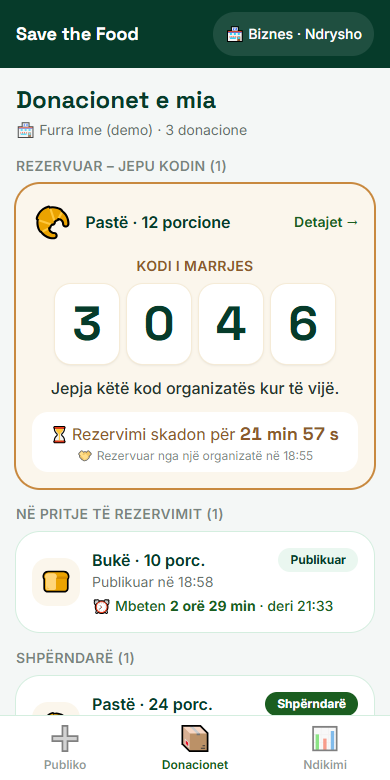
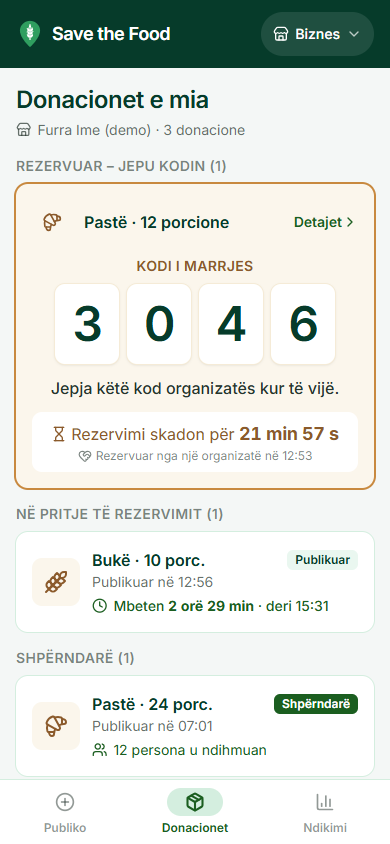
README and link preview show the new design; project notes updated

diff --git a/README.md b/README.md
@@ -34,9 +34,9 @@ Teprica ekziston dhe nevoja ekziston. Mungon një **lidhje e shpejtë** mes tyre
 
 ## Pamje
 
-| Harta | Publikimi | Kodi i marrjes | Ndikimi |
-|:---:|:---:|:---:|:---:|
-| <img src="docs/screenshots/1-harta.png" width="200" alt="Harta me ushqimin afër, një pin i zgjedhur dhe kartela me numërim mbrapsht" /> | <img src="docs/screenshots/2-publiko.png" width="200" alt="Formulari i publikimit me çipa për llojin, porcionet dhe afatin" /> | <img src="docs/screenshots/3-kodi.png" width="200" alt="Donacionet e biznesit me kodin 4-shifror të marrjes" /> | <img src="docs/screenshots/4-ndikimi.png" width="200" alt="Paneli i ndikimit me porcione, kg, donacione dhe persona" /> |
+| Ballina | Harta | Publikimi | Kodi i marrjes | Ndikimi |
+|:---:|:---:|:---:|:---:|:---:|
+| <img src="docs/screenshots/0-ballina.png" width="170" alt="Ballina me titullin, numrat live dhe butonin Fillo tani" /> | <img src="docs/screenshots/1-harta.png" width="170" alt="Harta me ushqimin afër, një pin i zgjedhur dhe kartela me numërim mbrapsht" /> | <img src="docs/screenshots/2-publiko.png" width="170" alt="Formulari i publikimit me çipa për llojin, porcionet dhe afatin" /> | <img src="docs/screenshots/3-kodi.png" width="170" alt="Donacionet e biznesit me kodin 4-shifror të marrjes" /> | <img src="docs/screenshots/4-ndikimi.png" width="170" alt="Paneli i ndikimit me numrat e 14 ditëve dhe grafikun ditor" /> |
 
 ## Funksionet (Faza 1)
 
@@ -46,7 +46,13 @@ Teprica ekziston dhe nevoja ekziston. Mungon një **lidhje e shpejtë** mes tyre
 - ⏰ **Numërim mbrapsht** dhe etiketa **"Duhet marrë së shpejti"** kur mbeten më pak se 60 minuta.
 - 🔄 **Statuset:** Publikuar → Rezervuar → Marrë → Shpërndarë. Rezervimi skadon vetë pas 30 minutash.
 - 🔢 **Kod 4-shifror** për konfirmimin e marrjes.
-- 📊 **Paneli i ndikimit:** porcione të shpëtuara, kg, donacione të përfunduara dhe persona të ndihmuar.
+- 📊 **Paneli i ndikimit:** porcione, kg, donacione, persona të ndihmuar dhe CO₂ e shmangur, me grafik
+  të 14 ditëve të fundit dhe krahasim me javën e kaluar.
+- 🟢 **Ballina live:** numra që numërojnë lart, hartë live (në kompjuter) dhe "Tani në Prishtinë" –
+  çdo publikim, rezervim dhe shpërndarje shfaqet në çast.
+- 🔗 **Ndaje ushqimin** me vullnetarët (WhatsApp, Viber, SMS) dhe **"Si herën e kaluar?"** për biznesin.
+- 🌙 **Modalitet i errët** automatik, **njoftime** pas çdo veprimi dhe animacione që respektojnë "reduce motion".
+- 🖥 **Responsive:** telefon, tablet dhe kompjuter (harta dhe lista krah për krah).
 - 👤 **Tri role:** Biznes, Organizatë, Vullnetar (pa login të vërtetë në këtë fazë).
 - 📱 **Mobile-first:** butona të mëdhenj për duar të zëna, një veprim kryesor për ekran.
 - 📲 **Instalohet si app (PWA):** shtoje në ekranin kryesor të telefonit dhe hapet pa shiritin e shfletuesit.

diff --git a/CLAUDE.md b/CLAUDE.md
@@ -70,6 +70,15 @@ NOT in Phase 1: notifications, profile verification, AI prediction, other cities
 ## Decisions
 - All data access goes through `src/lib/donationsStore.js`, so Supabase can replace it later
   without changing components.
+- The first page (`RoleSelectPage`) is a landing page: live hero numbers (`useCountUp`), live map on
+  computers only, "Si funksionon", live activity (`lib/activity.js` + `ActivityFeed`), footer.
+- `lib/history.js` makes a STABLE 14-day demo history (no Math.random) for the landing numbers and the
+  impact chart. Always labelled "të dhëna demo" in the UI. Replaced by real data with Supabase.
+- Feedback after actions: `showToast(message)` from `lib/toast.js`; `<Toaster />` is in App.jsx.
+- Animations are defined in `index.css` (`--animate-*`) and switched off under prefers-reduced-motion.
+  Page fade-in uses `backwards` fill so no transform stays behind (it would break sticky/fixed).
+- The map is loaded with `React.lazy` (`LazyDonationMap`); render maps only where they are visible
+  (useMediaQuery), not just hidden with CSS, or phones download Leaflet for nothing.
 - Data lives in localStorage. Other tabs refresh instantly via the `storage` event.
 - Sample data uses times **relative to now** (e.g. deadline in 45 min) so the app never looks empty.
   When fewer than 4 donations are available (published + deadline not passed), the `sample-*`
